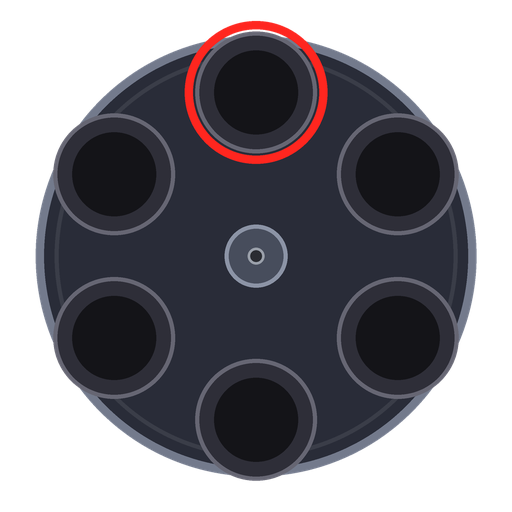
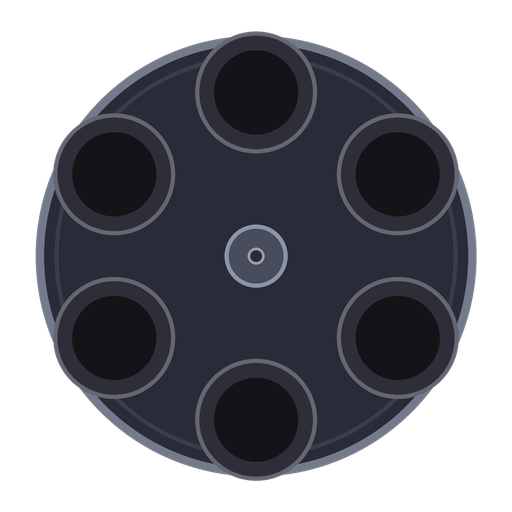
feat(game): v0.4.47 加载转轮去红圈，战斗转轮同款样式，击发圈改浅白闪光
网页加载页和原生启动图去掉正上方红圈。战斗弹夹转轮改成与加载页同一套样式（仓位、拖拽、装弹标和击发位置不变）。击发指示圈改为浅白，并带轻微闪光。

Changed region(s): [[0.3438, 0.0312, 0.6562, 0.3438]]

diff --git a/misc/web_shell.html b/misc/web_shell.html
@@ -49,21 +49,16 @@ body {
 	display: none;
 }
 
-#rr-cylinder-spin,
-#rr-fire-ring {
+#rr-cylinder-spin {
 	position: absolute;
 	inset: 0;
 	width: 100%;
 	height: 100%;
-}
-
-#rr-cylinder-spin {
 	transform-origin: 50% 50%;
 	animation: rr-cylinder-spin 1.8s linear infinite;
 }
 
-#rr-cylinder-spin svg,
-#rr-fire-ring svg {
+#rr-cylinder-spin svg {
 	display: block;
 	width: 100%;
 	height: 100%;
@@ -152,11 +147,6 @@ body {
 						<circle cx="54.45" cy="83" r="20" fill="#141418"/>
 						<circle cx="122" cy="122" r="15" fill="#474D5C" stroke="#8C94A6" stroke-width="2"/>
 						<circle cx="122" cy="122" r="4" fill="#2A2C32" stroke="#9AA0AA" stroke-width="1.2"/>
-					</svg>
-				</div>
-				<div id="rr-fire-ring">
-					<svg xmlns="http://www.w3.org/2000/svg" viewBox="0 0 244 244" width="244" height="244">
-						<circle cx="122" cy="44" r="34" fill="none" stroke="#FF261F" stroke-width="4"/>
 					</svg>
 				</div>
 			</div>
